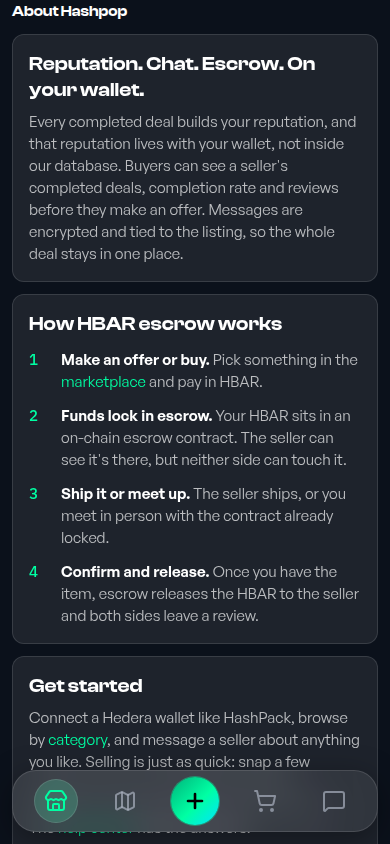
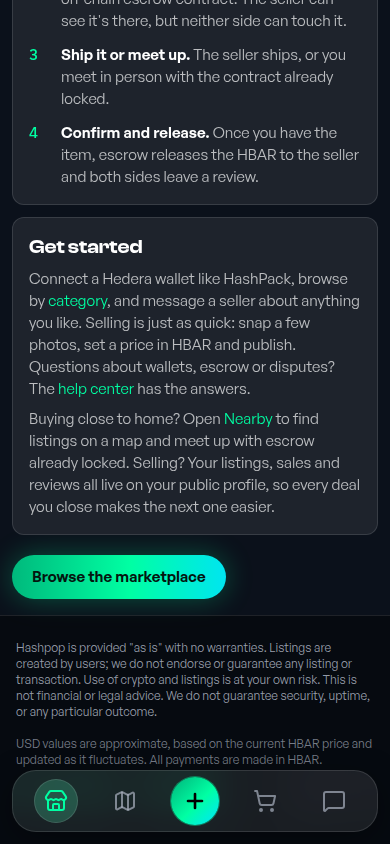
Add the Nearby paragraph under Get started.
Hashvinci's extra lines render in the server HTML before the marketplace CTA. Nearby is a dock overlay, so the link stays on /marketplace.

diff --git a/frontend/components/__tests__/HomeSeo.test.tsx b/frontend/components/__tests__/HomeSeo.test.tsx
@@ -31,7 +31,14 @@ describe("homepage SEO copy", () => {
     expect(html).toContain("Browse the marketplace");
     expect(html).toContain("<details");
     expect(html).toContain("Hashpop is a peer-to-peer marketplace");
-    expect(homeCopyWordCount()).toBeGreaterThan(200);
-    expect(homeCopyWordCount()).toBeLessThan(350);
+    expect(html).toContain("Buying close to home? Open ");
+    expect(html).toContain(">Nearby</a>");
+    expect(html).toContain("makes the next one easier.");
+    const nearby = html.indexOf("Buying close to home?");
+    const cta = html.indexOf("Browse the marketplace");
+    expect(nearby).toBeGreaterThan(html.indexOf("Get started"));
+    expect(nearby).toBeLessThan(cta);
+    expect(homeCopyWordCount()).toBeGreaterThan(250);
+    expect(homeCopyWordCount()).toBeLessThan(360);
   });
 });

diff --git a/frontend/content/home.ts b/frontend/content/home.ts
@@ -91,6 +91,14 @@ export const HOME_SECTIONS: HomeSection[] = [
         { kind: "link", href: "/help", text: "help center" },
         { kind: "text", text: " has the answers." },
       ],
+      [
+        { kind: "text", text: "Buying close to home? Open " },
+        { kind: "link", href: "/marketplace", text: "Nearby" },
+        {
+          kind: "text",
+          text: " to find listings on a map and meet up with escrow already locked. Selling? Your listings, sales and reviews all live on your public profile, so every deal you close makes the next one easier.",
+        },
+      ],
     ],
   },
 ];
